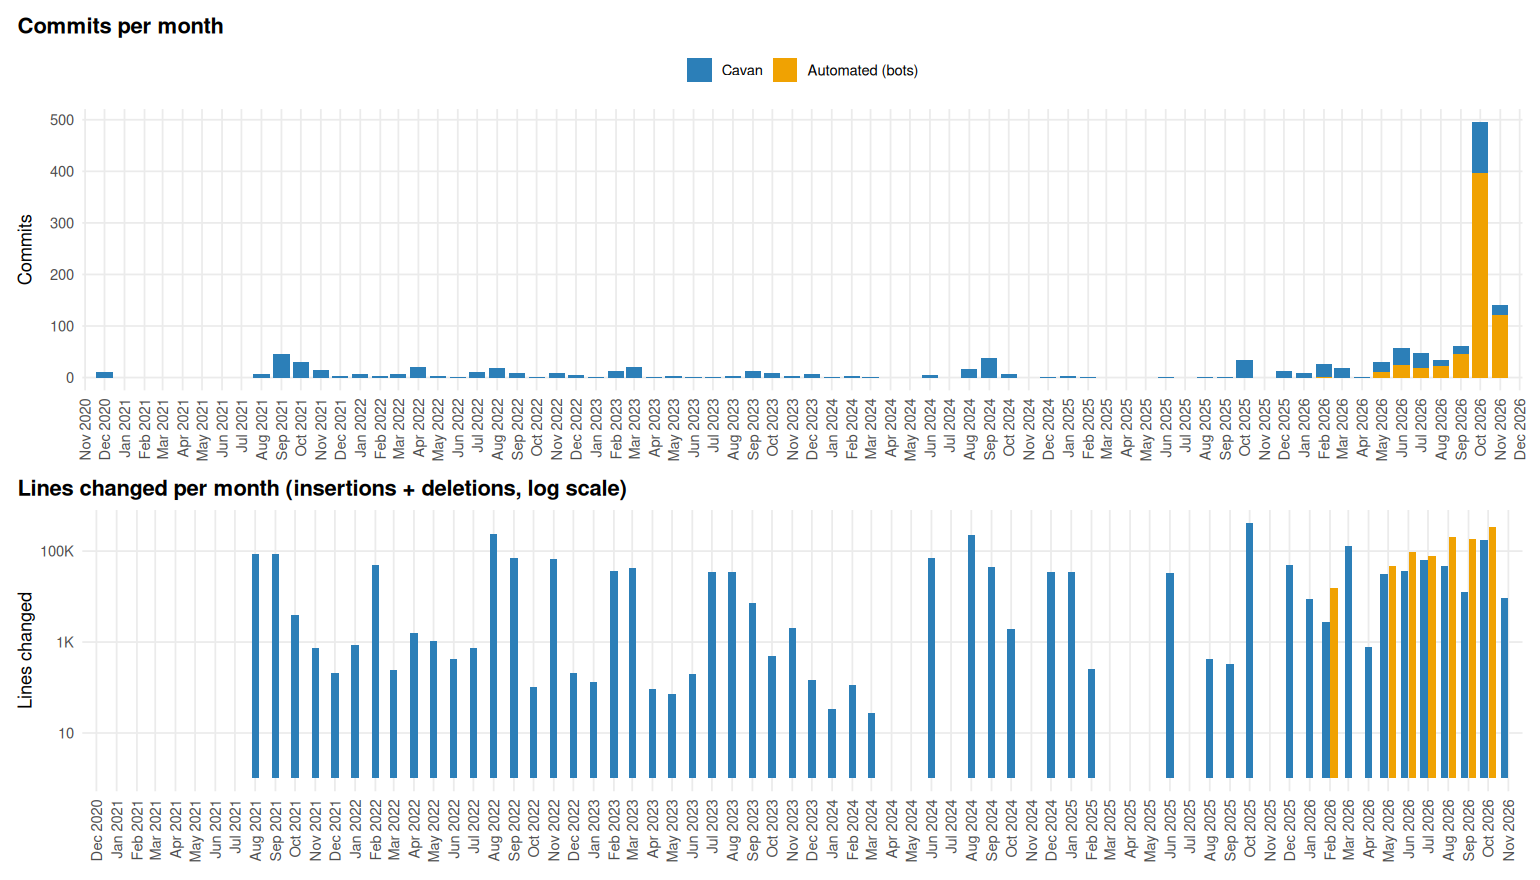
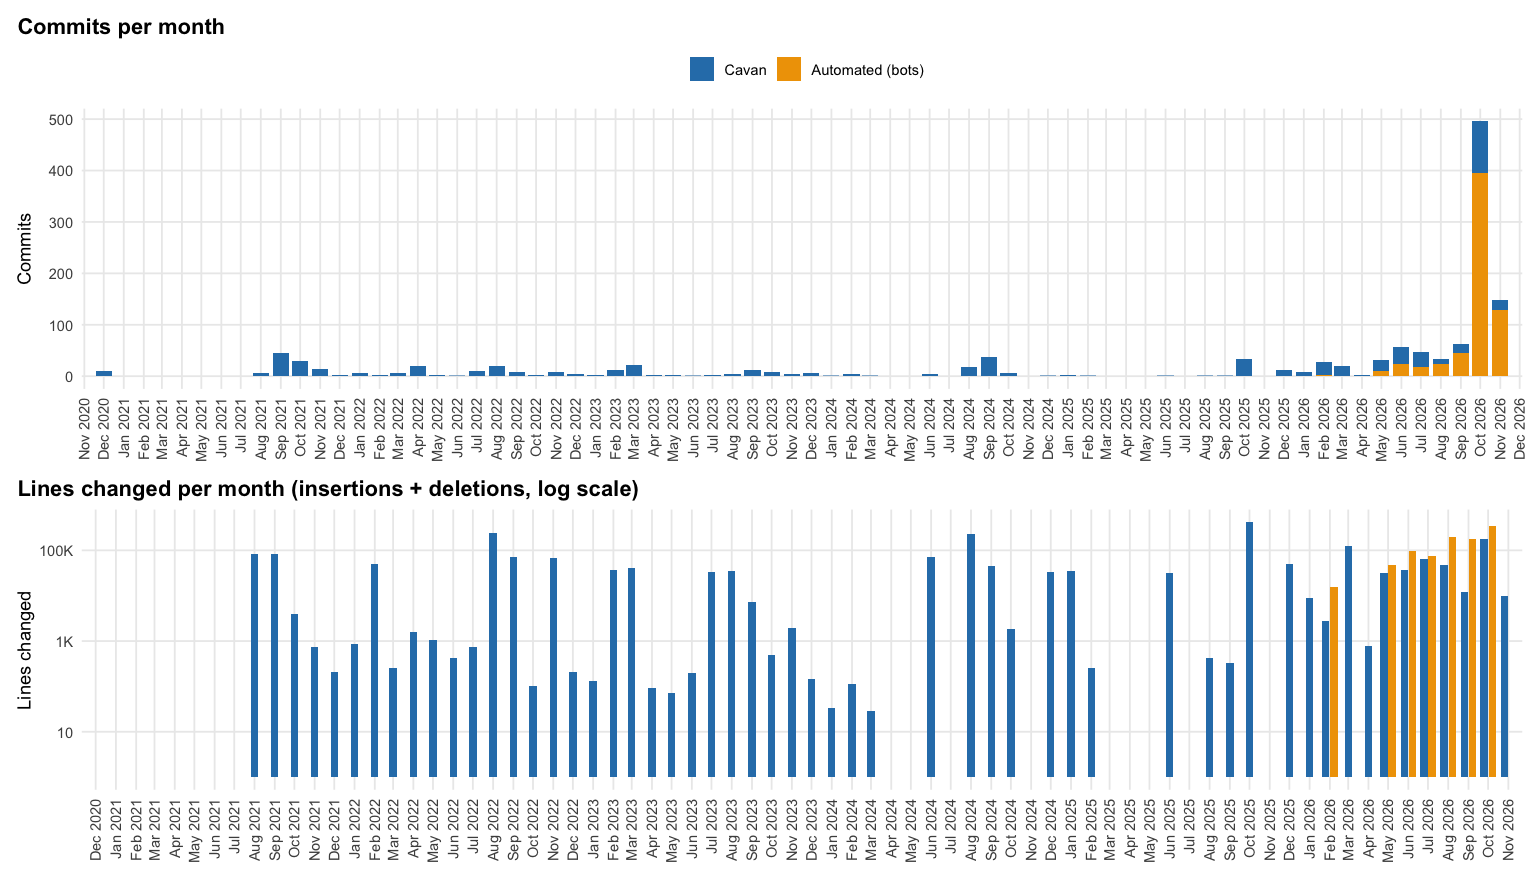
Style Google page tables, fix antitrust timeline, drop seed trigger
The ad tech no-breakup ruling was 2026, not 2025. The CSV is now seeded,
so update_googl only runs on its weekly schedule or by hand. Re-knit the
README for the new page and workflow.

diff --git a/README.md b/README.md
@@ -91,6 +91,7 @@ Check out my website at <https://cavandonohoe.github.io>
 - [Rent vs. Buy
   Calculator](https://cavandonohoe.shinyapps.io/rent-vs-buy/) (Shiny,
   [source](https://github.com/cavandonohoe/rent-vs-buy))
+- [Why I Own Google](https://cavandonohoe.github.io/why_google.html)
 
 ### Data Science & Clinical
 
@@ -150,6 +151,8 @@ manual is a click away on the Actions tab.
 - `update_director_filmographies.yml` – monthly TMDb director
   filmography refresh for the Director Box Office Trajectory page.
 - `update_sp500.yml` – weekly VOO price refresh.
+- `update_googl.yml` – weekly GOOGL and SPY price refresh for Why I Own
+  Google.
 - `update_us_rentals.yml` – monthly Zillow ZHVI/ZORI refresh.
 - `update_rental_desk.yml` – monthly copy of the private rental-desk
   repo’s live tracker for the Rental Desk scoreboard (needs the
@@ -186,7 +189,7 @@ manual is a click away on the Actions tab.
 - `refresh-commit-activity.yml` – weekly re-knit of this README’s
   commit-activity charts.
 
-The uniform ones (`update_sp500`, `update_us_rentals`,
+The uniform ones (`update_sp500`, `update_googl`, `update_us_rentals`,
 `update_rental_desk`, `update_top250_with_rt`,
 `update_watched_episodes`) are thin callers of `refresh-data.yml`, which
 owns the shared run/guard/commit/redeploy logic. The rest stay
@@ -251,8 +254,8 @@ above. Regenerated each time `README.Rmd` is knit.
 
 <img src="images/readme/commit-activity-cumulative-1.png" alt="Two cumulative line charts showing total commits and total lines changed (insertions + deletions) over time, split by Cavan's own commits vs. scheduled-bot commits."  />
 
-*1,331 commits from Dec 2020 to Nov 2026 (690 by me, 641 by scheduled
-bots), touching 3,367,879 lines in total.*
+*1,338 commits from Dec 2020 to Nov 2026 (691 by me, 647 by scheduled
+bots), touching 3,368,587 lines in total.*
 
 ## Setup and Local Development
 
